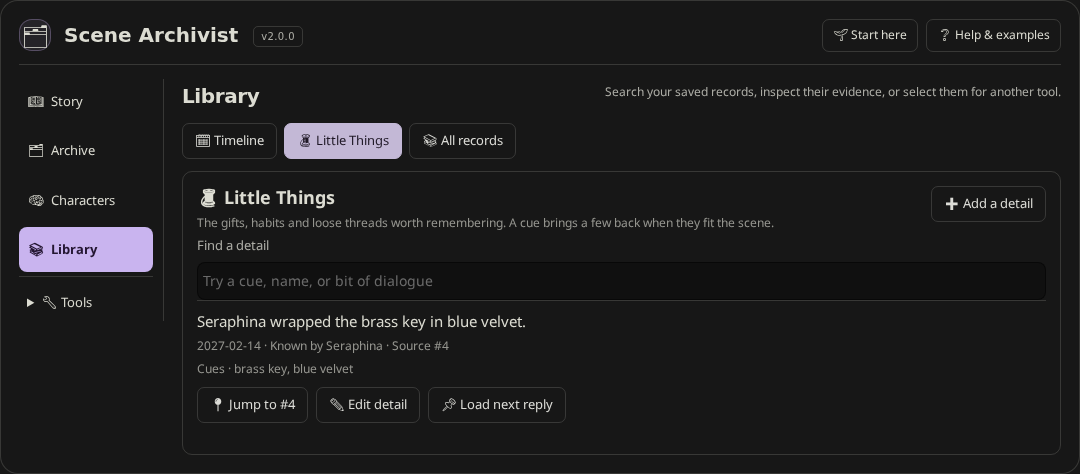
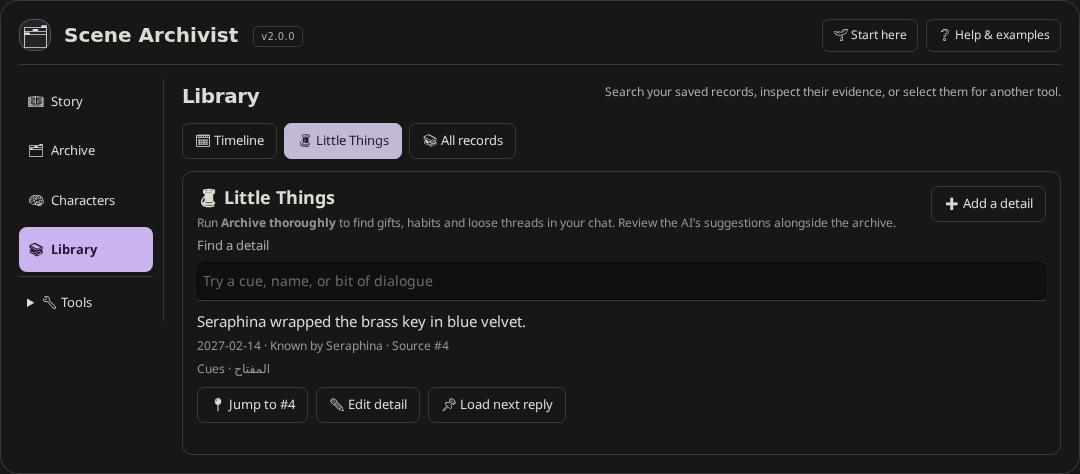
Refine Memory Trail and finalize Scene Archivist 2.0.0

Changed region(s): [[0.1833, 0.443, 0.825, 0.5021], [0.2139, 0.7679, 0.3361, 0.7975]]

diff --git a/prompt-inspection.js b/prompt-inspection.js
@@ -130,27 +130,38 @@ export class PromptInspection {
         const trace = index === null
             ? this.lastTrace || chat.findLast(item => item.extra?.[traceKey])?.extra?.[traceKey]
             : message?.extra?.[traceKey];
+        const replyIndex = index ?? (trace ? chat.findLastIndex(item => item.extra?.[traceKey] === trace) : -1);
+        const title = docked ? 'Memory Trail' : index === null ? 'Last reply’s memory trail' : `Memory Trail for #${index}`;
+        const header = document.createElement('header');
+        header.className = 'sa-trail-head';
+        header.innerHTML = `<div class="sa-trail-title"><h3><i class="fa-solid fa-magnifying-glass" aria-hidden="true"></i> ${title}</h3></div>`;
+        if (docked && replyIndex >= 0) header.insertAdjacentHTML('beforeend', `<p class="sa-trail-reply">Reply #${replyIndex}</p>`);
         const root = document.createElement('div');
         root.className = 'sa-review sa-prompt-trace';
-        root.innerHTML = `<h3>🔎 ${index === null ? docked ? 'Memory Trail' : 'Last reply’s memory trail' : `Memory Trail for #${index}`}</h3>
-            <p class="sa-hint">What Scene Archivist selected for this reply, with the cues and sources behind it.</p>`;
+        if (!docked) root.append(header);
         if (!trace) {
-            root.insertAdjacentHTML('beforeend', '<p>No trace for this swipe. Generate a reply with an attached archive to start recording.</p>');
+            root.insertAdjacentHTML('beforeend', '<p class="sa-hint">No trace for this swipe. Generate a reply with an attached archive to start recording.</p>');
         } else {
-            const intro = document.createElement('p');
-            intro.textContent = trace.scanObserved ? `${trace.loaded} loaded · ~${trace.tokens.toLocaleString()} tokens · ${trace.skipped} skipped.` :
-                'No Scene Archivist activation was reported for this reply.';
-            root.append(intro);
-            if (trace.prefixTokens != null) {
-                const p = document.createElement('p');
-                p.className = 'sa-hint';
-                p.textContent = `~${trace.prefixTokens.toLocaleString()} tokens of shared prompt prefix vs. the previous request. ${trace.layered ? 'Cache-friendly delivery was on.' : 'Normal delivery was on.'}`;
-                root.append(p);
+            if (trace.scanObserved) {
+                const stats = document.createElement('ul');
+                stats.className = 'sa-trail-stats';
+                stats.setAttribute('aria-label', 'Reply totals');
+                for (const stat of [`${trace.loaded} loaded`, `~${trace.tokens.toLocaleString()} tokens`, `${trace.skipped} skipped`]) {
+                    const chip = document.createElement('li');
+                    chip.textContent = stat;
+                    stats.append(chip);
+                }
+                header.append(stats);
+            } else {
+                root.insertAdjacentHTML('beforeend', '<p class="sa-hint">No Scene Archivist activation was reported for this reply.</p>');
             }
-            for (const [title, items, total] of [['📥 Lorebook records', trace.active, trace.loaded - (trace.little?.length || 0)], ['🧹 Skipped', trace.omitted, trace.skipped]]) {
+            const littleCount = trace.little?.length || 0;
+            for (const [loaded, items, total] of [[true, trace.active, trace.loaded - littleCount], [false, trace.omitted, trace.skipped]]) {
                 const section = document.createElement('details');
-                section.open = title.startsWith('📥');
-                section.innerHTML = `<summary>${title} · ${total}</summary>`;
+                section.open = loaded && !littleCount;
+                const summary = document.createElement('summary');
+                summary.textContent = `${loaded ? '📥 Lorebook records' : '🧹 Skipped'} · ${total}`;
+                section.append(summary);
                 if (!items.length) section.insertAdjacentHTML('beforeend', '<p>None recorded.</p>');
                 for (const item of items) {
                     const row = document.createElement('div');
@@ -163,7 +174,7 @@ export class PromptInspection {
                         button.type = 'button'; button.className = 'menu_button'; button.textContent = '🔎 View sources';
                         button.addEventListener('click', () => void w.showSources(item.id));
                         actions.append(button);
-                        if (section.open) {
+                        if (loaded) {
                             const load = document.createElement('button');
                             load.type = 'button'; load.className = 'menu_button'; load.textContent = '📌 Load next reply';
                             load.addEventListener('click', () => void w.dispatch('loadDetail', { dataset: { id: item.id } }).catch(error => w.h.notify(error.message, 'error')));
@@ -178,7 +189,9 @@ export class PromptInspection {
             if (trace.little?.length) {
                 const section = document.createElement('details');
                 section.open = true;
-                section.innerHTML = `<summary>🧵 Little Things · ${trace.little.length} · ~${trace.littleTokens} tokens</summary>`;
+                const summary = document.createElement('summary');
+                summary.textContent = `🧵 Little Things · ${littleCount} · ~${trace.littleTokens} tokens`;
+                section.append(summary);
                 for (const item of trace.little) {
                     const row = document.createElement('div');
                     row.className = 'sa-result';
@@ -205,6 +218,15 @@ export class PromptInspection {
                 }
                 root.querySelector('details')?.before(section);
             }
+            if (trace.prefixTokens != null) {
+                const diagnostics = document.createElement('details');
+                diagnostics.innerHTML = '<summary>Prompt delivery</summary>';
+                const p = document.createElement('p');
+                p.className = 'sa-hint';
+                p.textContent = `~${trace.prefixTokens.toLocaleString()} tokens shared with the previous request. ${trace.layered ? 'Cache-friendly delivery was on.' : 'Normal delivery was on.'}`;
+                diagnostics.append(p);
+                root.append(diagnostics);
+            }
         }
         if (docked) {
             this.closeDock(false);
@@ -220,10 +242,13 @@ export class PromptInspection {
             dock.className = 'sa-trail-dock';
             dock.setAttribute('aria-label', 'Memory Trail');
             const close = document.createElement('button');
-            close.type = 'button'; close.className = 'menu_button sa-trail-close'; close.textContent = 'Close trail';
+            close.type = 'button'; close.className = 'menu_button sa-trail-close'; close.textContent = 'Close';
+            close.setAttribute('aria-label', 'Close trail');
             close.addEventListener('click', () => this.closeDock());
             dock.addEventListener('keydown', event => { if (event.key === 'Escape') this.closeDock(); });
-            dock.append(close, root); document.body.append(dock);
+            header.querySelector('.sa-trail-title').append(close);
+            root.classList.add('sa-trail-body');
+            dock.append(header, root); document.body.append(dock);
             document.body.classList.add('sa-trail-open');
             this.dock = dock;
             this.dockTrigger = trigger;

diff --git a/style.css b/style.css
@@ -379,27 +379,53 @@ dialog:has(.sa-popwrap) .popup-content { padding: 0; }
 .sa-review .sa-proposal > summary b { flex: 1 1 175px; overflow-wrap: anywhere; }
 dialog:has(.sa-review) .popup-button-ok { font-family: var(--mainFontFamily, system-ui), "Segoe UI Emoji", "Apple Color Emoji", "Noto Color Emoji", "Noto Emoji", sans-serif; }
 .sa-trail-dock {
-    position: fixed; z-index: 500; top: calc(var(--topBarBlockSize, 45px) + 8px); inset-inline-end: 8px;
-    height: calc(100dvh - var(--topBarBlockSize, 45px) - 16px);
-    width: 310px; max-width: calc(100vw - 16px); overflow: auto; overscroll-behavior: contain; padding: 12px;
-    border: 1px solid var(--SmartThemeBorderColor, #62586d); border-radius: 12px;
-    background: color-mix(in srgb, var(--SmartThemeBlurTintColor, #211d26) 88%, #24212a);
-    color: var(--SmartThemeBodyColor, #eeeaf5); box-shadow: 0 6px 24px #0006;
-}
-.sa-trail-dock .sa-result { overflow-wrap: anywhere; }
-.sa-trail-dock .sa-trail-actions { margin: 8px 0 2px; gap: 5px; }
-.sa-trail-dock .menu_button {
-    display: inline-flex; align-items: center; justify-content: center; width: auto; min-height: 34px; padding: 5px 8px;
-    border: 1px solid var(--SmartThemeBorderColor, #62586d); border-radius: 6px; font: inherit; font-size: .8em; white-space: nowrap;
-}
-.sa-trail-close { float: inline-end; }
-.sa-trail-dock .sa-review h3 { font-size: 1.25em; margin: 6px 0 13px; }
-@media (min-width: 921px) {
-    body.sa-trail-open #sheld { right: 326px; max-width: calc(100vw - 344px); }
-}
-@media (max-width: 920px) {
     /* ST transforms the document root and fixes its body on mobile. */
-    .sa-trail-dock { top: 100dvh; transform: translateY(-100%); inset-inline: 0; width: auto; max-width: none; height: auto; max-height: 48dvh; padding-bottom: max(12px, env(safe-area-inset-bottom)); border-radius: 12px 12px 0 0; }
+    position: fixed; z-index: 500; top: 100dvh; left: 0; right: 0; transform: translateY(-100%);
+    display: flex; flex-direction: column; max-height: 48dvh; overflow: hidden; box-sizing: border-box;
+    padding-bottom: env(safe-area-inset-bottom); border: 1px solid var(--sa-trail-line); border-radius: 12px 12px 0 0;
+    --sa-trail-line: color-mix(in srgb, currentColor 20%, transparent);
+    --sa-trail-wash: color-mix(in srgb, currentColor 7%, transparent);
+    color: var(--SmartThemeBodyColor, #eeeaf5); box-shadow: 0 6px 24px #0006;
+    background: var(--SmartThemeBlurTintColor, #211d26);
+    background: rgb(from var(--SmartThemeBlurTintColor, #211d26) r g b / 1);
+    font-size: .9rem; text-shadow: none;
+}
+.sa-trail-title { display: flex; justify-content: space-between; align-items: center; gap: 8px; }
+.sa-trail-stats { display: flex; flex-wrap: wrap; gap: 5px; list-style: none; padding: 0; margin: 8px 0 0; }
+.sa-trail-stats li { padding: 3px 8px; border-radius: 6px; font-size: .86em; line-height: 1.4; background: var(--sa-trail-wash, #8882); }
+.sa-trail-dock .sa-trail-head { flex: none; padding: 10px 12px; border-bottom: 1px solid var(--sa-trail-line); }
+.sa-trail-dock h3 { margin: 0; font: 650 1.15em/1.35 var(--mainFontFamily, system-ui), sans-serif; }
+.sa-trail-reply { margin: 2px 0 0; font-size: .86em; opacity: .8; }
+.sa-trail-body { min-height: 0; overflow: auto; overscroll-behavior: contain; scrollbar-gutter: stable; padding: 9px 10px 10px 12px; }
+.sa-trail-dock .sa-review details { margin: 0 0 6px; padding: 0; border-color: var(--sa-trail-line); }
+.sa-trail-dock details > summary { padding: 7px 9px; font-size: .93em; font-weight: 600; }
+.sa-trail-dock details[open] > summary { background: var(--sa-trail-wash); border-radius: 7px 7px 0 0; }
+.sa-trail-dock details > p { margin: 8px 9px; }
+.sa-trail-dock .sa-result { padding: 8px 0; margin: 0 9px; border-color: var(--sa-trail-line); line-height: 1.4; }
+.sa-trail-dock .sa-result:first-of-type { border-top: 0; }
+.sa-trail-dock .sa-result p { margin: 3px 0; }
+.sa-trail-dock .sa-trail-actions { margin: 6px 0 0; gap: 5px; }
+.sa-trail-dock .menu_button {
+    display: inline-flex; align-items: center; justify-content: center; width: auto; min-height: 34px; margin: 0; padding: 4px 8px;
+    border: 1px solid var(--sa-trail-line); border-radius: 6px; font: inherit; font-size: .86em; white-space: nowrap;
+}
+@media (pointer: coarse) {
+    .sa-trail-dock .menu_button { min-height: 44px; }
+}
+@media (min-width: 1001px) and (pointer: fine) {
+    body.sa-trail-open:not(.movingUI) {
+        --sa-trail-width: clamp(312px, 24dvw, 380px);
+        --sa-trail-gap: 12px;
+        --sa-trail-chat-width: min(var(--sheldWidth, 100dvw), calc(100dvw - var(--sa-trail-width) - 3 * var(--sa-trail-gap)));
+    }
+    body.sa-trail-open:not(.movingUI) #sheld {
+        right: calc(var(--sa-trail-width) + var(--sa-trail-gap)); max-width: var(--sa-trail-chat-width);
+    }
+    body.sa-trail-open:not(.movingUI) .sa-trail-dock {
+        top: calc(var(--topBarBlockSize, 45px) + 8px); right: auto; transform: none; border-radius: 12px;
+        left: calc((100dvw + var(--sa-trail-chat-width) - var(--sa-trail-width) + var(--sa-trail-gap)) / 2);
+        width: var(--sa-trail-width); max-height: calc(100dvh - var(--topBarBlockSize, 45px) - 16px);
+    }
 }
 @media (max-width: 720px) {
     .sa-sidebar-workspace > .sa-tabs { grid-template-columns: repeat(4, minmax(0, 1fr)); gap: 3px; }

diff --git a/little-things.js b/little-things.js
@@ -18,20 +18,26 @@ const unspaced = /[\p{Script=Han}\p{Script=Hiragana}\p{Script=Katakana}\p{Script
 const arabic = /\p{Script_Extensions=Arabic}/u;
 const cueText = value => normalize(value).replace(/[\u0640\p{M}]/gu, mark => mark === '\u0640' || arabic.test(mark) ? '' : mark).replace(/ +/g, ' ').trim();
 const boundary = symbol => !symbol || symbol === ' ' || unspaced.test(symbol);
+const arabicPrefix = / (?:[وف][بكل]?|[بكل])$/;
+const arabicConjunction = / [وف]$/;
 
 function phrase(text, cue) {
     if (!cue) return false;
     const symbols = [...cue], first = symbols[0], last = symbols.at(-1);
     const padded = ` ${text} `;
     const looseStart = unspaced.test(first), looseEnd = unspaced.test(last);
-    const arabicPrefix = symbols.length > 1 && arabic.test(first);
-    for (let at = padded.indexOf(cue); at >= 0; at = padded.indexOf(cue, at + 1)) {
-        const end = at + cue.length;
-        const before = [...padded.slice(Math.max(0, at - 2), at)].at(-1);
-        const after = [...padded.slice(end, end + 2)][0];
-        // Match attached Arabic conjunctions and prepositions at the start of a word.
-        const prefixed = arabicPrefix && / (?:[وف][بك]?|[بك])$/.test(padded.slice(Math.max(0, at - 3), at));
-        if ((looseStart || boundary(before) || prefixed) && (looseEnd || boundary(after))) return true;
+    const arabicWord = symbols.length > 1 && arabic.test(first);
+    const forms = [[cue, arabicWord ? arabicPrefix : null]];
+    // Arabic drops the article's alif after ل, as in المفتاح → للمفتاح.
+    if (arabicWord && /^ال\p{L}/u.test(cue)) forms.push([`ل${cue.slice(1)}`, arabicConjunction]);
+    for (const [form, prefix] of forms) {
+        for (let at = padded.indexOf(form); at >= 0; at = padded.indexOf(form, at + 1)) {
+            const end = at + form.length;
+            const before = [...padded.slice(Math.max(0, at - 2), at)].at(-1);
+            const after = [...padded.slice(end, end + 2)][0];
+            const prefixed = prefix?.test(padded.slice(Math.max(0, at - 3), at));
+            if ((looseStart || boundary(before) || prefixed) && (looseEnd || boundary(after))) return true;
+        }
     }
     return false;
 }
@@ -172,8 +178,8 @@ export function recallFrame(chat, type, speakerNames = []) {
     return { focus, prior, participants, place, date, flashback: flashback ? date : '', boundary, end };
 }
 
-function cueMatch(cues, frame, allowSingle = true) {
-    const hits = [...new Set(cues.map(cueText).filter(cue => cue && (allowSingle || cue.includes(' ') || [...cue].length > 1 && unspaced.test(cue))))];
+function cueMatch(cues, frame, eligible) {
+    const hits = [...new Set(cues.map(cueText).filter(cue => cue && eligible(cue, [...cue].length)))];
     for (const [i, message] of [frame.focus, ...frame.prior].entries()) {
         if (!message) continue;
         const matched = hits.filter(cue => phrase(message.text, cue)).sort((a, b) => b.length - a.length)[0];
@@ -213,8 +219,10 @@ export function noteRecall(notes, { frame, speaker, chat, sourceId, carry, reque
     const reminder = /\b(?:you (?:still )?owe me|you promised|our promise|did you forget (?:our|your) promise|hold you to (?:it|that))\b/.test(frame.focus?.text || '');
     const exact = /\b(?:exact words|word for word|verbatim|quote|what did .{1,60} say)\b/.test(frame.focus?.text || '');
     return allowed.flatMap(note => {
+        const names = [...(note.participants || []), ...(note.knows || [])];
         const match = requested.has(note.id) ? { score: 100, reason: 'Requested for this reply' } :
-            cueMatch(note.cues || [], frame) ||
+            cueMatch(note.cues || [], frame, (cue, length) => length >= 3 || unspaced.test(cue) ||
+                length === 2 && names.some(name => cueText(name) === cue)) ||
             (reminder && openPromises.length === 1 && openPromises[0] === note ? { score: 28, reason: 'Open promise between scene participants', anchor: frame.focus } : null) ||
             carryMatch(carry.get(note.id), frame, chat);
         if (!match) return [];
@@ -239,7 +247,8 @@ export function recordRecall(entries, frame, chat = [], carry = new Map()) {
         if (!recalledTypes.has(r?.type) || r.knowledge === 'unaware' || entry.disable || entry.constant || entry.keysecondary?.length || entry.probability < 100 ||
             entry.group || entry.characterFilter?.names?.length || entry.characterFilter?.tags?.length || entry.decorators?.length ||
             entry.delay || entry.cooldown || entry.sticky || flashbackReason(entry, frame)) return [];
-        const match = cueMatch([...(entry.key || []), ...(r.locations || []), ...(r.aliases || [])], frame, false) ||
+        const match = cueMatch([...(entry.key || []), ...(r.locations || []), ...(r.aliases || [])], frame,
+            (cue, length) => cue.includes(' ') || length > 1 && unspaced.test(cue)) ||
             carryMatch(carry.get(r.id), frame, chat);
         return match ? [{ entry, ...match }] : [];
     }).sort((a, b) => b.score - a.score).slice(0, 4);

diff --git a/tests/little-things.test.js b/tests/little-things.test.js
@@ -24,17 +24,30 @@ test('recall finds unspaced scripts, short names and Arabic attached prefixes', 
         ['青い鍵', '彼女は青い鍵をそっとしまった。'],
         ['กุญแจ', 'เธอเก็บกุญแจไว้ในกระเป๋า'],
         ['المفتاح', 'خبّأت مريم المصباح وَبِالْمِفْتَاحِ فتحت الباب.'],
+        ['مفتاح', 'هذا القفل يحتاج لِمِفْتَاح جديد.'],
+        ['المفتاح', 'كان لِلْمِفْتَاحِ مكان خاص.'],
+        ['المفتاح النحاسي', 'ولِلْمِفْتَاحِ النحاسي مكان خاص.'],
         ['Jo', 'Mara handed Jo the key.'],
         ['Jo', '彼女はJoに鍵を渡した。'],
         ['李', '李把它带回家。'],
     ];
     for (const [cue, mes] of samples) {
-        const detail = Little.makeLittleThing({ text: 'Remember the handover.', cues: [cue], knows: ['Rowan'] });
+        const detail = Little.makeLittleThing({ text: 'Remember the handover.', cues: [cue], knows: ['Rowan'], participants: ['Jo'] });
         const messages = [{ name: 'Mara', is_user: true, mes }];
         assert.equal(candidates(messages, {}, [detail]).length, 1, cue);
     }
-    const short = Little.makeLittleThing({ text: 'Jo has the key.', cues: ['Jo'] });
-    assert.equal(candidates([{ name: 'Mara', mes: 'Joanne found her journal.' }], {}, [short]).length, 0);
+    const negatives = [
+        ['Jo', 'Joanne found her journal.', ['Jo']],
+        ['Jo', 'Jo found her journal.', []],
+        ['in', 'She put it in the drawer.', []],
+        ['a', 'She left a letter.', ['A']],
+        ['المفتاح', 'احتفظت بالمفتاحين في الدرج.', []],
+        ['المفتاح', 'هذه جملة بللمفتاح.', []],
+    ];
+    for (const [cue, mes, participants] of negatives) {
+        const detail = Little.makeLittleThing({ text: 'Remember the handover.', cues: [cue], participants });
+        assert.equal(candidates([{ name: 'Mara', mes }], {}, [detail]).length, 0, cue);
+    }
 
     const entry = { key: ['青い鍵'], sceneArchivist: { type: 'unit' } };
     assert.equal(Little.recordRecall([entry], Little.recallFrame([{ mes: samples[1][1] }], 'normal'))[0].entry, entry);

diff --git a/story-library.js b/story-library.js
@@ -84,11 +84,11 @@ export class StoryLibrary {
     renderNotes() {
         const view = this.pane.querySelector('[data-sa-library-view="little"]'), notes = this.w.littleThings().slice().reverse();
         view.innerHTML = `<header class="sa-little-head"><div><h3>🧵 Little Things</h3>
-            <p class="sa-hint">The gifts, habits and loose threads worth remembering. A cue brings a few back when they fit the scene.</p></div>
+            <p class="sa-hint">Run <strong>Archive thoroughly</strong> to find gifts, habits and loose threads in your chat. Review the AI’s suggestions alongside the archive.</p></div>
             ${action('editNote', '➕ Add a detail')}</header>
             ${notes.length ? `<label class="sa-field"><span>Find a detail</span><input type="search" class="text_pole" data-sa-note-search placeholder="Try a cue, name, or bit of dialogue"></label>
                 <div class="sa-little-results">${notes.map(note => this.noteRow(note)).join('')}</div>` :
-                '<p class="sa-empty-state">Save one here, use Remember this on a message, or review suggestions after archiving.</p>'}`;
+                '<p class="sa-empty-state">Approved details appear here. To keep something the AI missed, add a detail or use Remember this on a chat message.</p>'}`;
         view.querySelector('[data-sa-note-search]')?.addEventListener('input', event => {
             const query = event.target.value.trim().toLowerCase();
             for (const row of view.querySelectorAll('.sa-little-row')) row.hidden = !row.textContent.toLowerCase().includes(query);

diff --git a/README.md b/README.md
@@ -160,9 +160,9 @@ Use **Sources** on a Library result. Each source range lists the chat it came fr
 
 ### Little Things
 
-Keep the borrowed coat, the way someone takes their coffee, or the promise that never made it into the main plot. Use **Library → Little Things → Add a detail**, or choose **Little Thing** in **Remember this** on a chat message. Give it a cue someone might actually say. Fill in **Who knows** for private details.
+Run **Archive thoroughly** to have the AI find the borrowed coat, the way someone takes their coffee, or the promise that never made it into the main plot. Reviewed archive and condense runs suggest details in the same model response. Uncheck any suggestions you want to skip, then choose **Save selected**. **Review later** keeps the whole draft.
 
-Reviewed archive and condense runs can suggest details in the same model response. Uncheck any suggestions you want to skip, then choose **Save selected**. **Review later** keeps the whole draft. Little Things live in the selected archive’s story metadata and travel with full story backups. Each detail adds zero lorebook entries. A branch with verified history keeps only Little Things with matching source messages.
+Find approved details under **Library → Little Things**. To keep something the AI missed, choose **Add a detail** there or choose **Little Thing** in **Remember this** on a chat message. Give it a specific cue someone might actually say. Fill in **Who knows** for private details. Little Things live in the selected archive’s story metadata and travel with full story backups. Each detail adds zero lorebook entries. A branch with verified history keeps only Little Things with matching source messages.
 
 A normal reply can load up to four matching details inside the existing memory budget on SillyTavern versions with the World Info scan hook. Relevant cues and open promises can carry over for a few replies within a scene. **Load next reply** queues a detail for the next eligible speaker. To turn off automatic selection, open **Tools → Prompt** and switch off scene recall.
 
@@ -189,7 +189,7 @@ Optional recap automation can suggest or create a recap after newer units, ficti
 
 - Under **Library → All records → Search, evidence and continuity**, **Ask the archive** answers a question with source links. **Check this claim** checks one statement, and the recent or whole-archive checks look for conflicts across records.
 - **Previously on…** creates a short return recap for the reader. **Recall** can ask a helper model to pick relevant details before a normal reply.
-- In **Story**, open the last reply’s **Memory Trail** beside the chat. On a small screen it opens as a bottom sheet. The chat message menu opens the trail for that reply or swipe. **Tools → Prompt** has the memory budget and more loading details. The trail reports both the native World Info matches and the Little Things Scene Archivist prepared for the reply.
+- In **Story**, open the last reply’s **Memory Trail** beside the chat. On a small screen or with Moving UI enabled it opens as a bottom sheet. The chat message menu opens the trail for that reply or swipe. The header stays visible as you scroll through World Info matches and Little Things. Open **Prompt delivery** for cache details or **Tools → Prompt** for budget settings.
 
 For a past scene, put an explicit marker such as `Flashback: February 14, 2027` on its own line in the chat. Scene recall uses the date to leave out managed memories that contain later or undated evidence. A new scene marker or a changed place ends recent cue carryover.
 

diff --git a/CHANGELOG.md b/CHANGELOG.md
@@ -1,19 +1,15 @@
 # Changelog
 
-## Unreleased
-
-- Skipping a suggested Little Thing now closes the review when all selected story records have been saved.
-- Scene recall matches short cues, Chinese, Japanese and Thai text without spaces, and common attached Arabic prefixes.
-- The fallback token estimate uses separate allowances for Arabic and Cyrillic prose, with extra room for Arabic vowel marks.
-
-## 2.0.0
+## 2.0.0 · November 7, 2026
 
 - Put Story, Archive, Characters and Library in one compact workspace. Find Maintain, Prompt and Settings under Tools, with Branches in Maintain.
 - Added a Library timeline with scene summaries, linked character memories, Little Things and original message jumps.
-- Added Little Things for small callbacks and open threads. Keep them in the archive’s story metadata, save one from a chat message, or review suggestions during archive and condense runs.
+- Added Little Things for small callbacks and open threads. Review AI suggestions during archive and condense runs, or save a detail from a chat message. Skipping a suggestion during approval dismisses it.
 - Added local scene recall for cues, promises and short carryover. Little Things share the prompt token budget, respect who knows them, and can include a verified short quote when requested.
-- Added a reply-side Memory Trail on desktop and a bottom sheet on smaller screens. See what loaded, why it loaded, and where it came from.
+- Recall matches unspaced Chinese, Japanese and Thai cues and attached Arabic prefixes, including forms like للمفتاح. Short cues in spaced scripts require a two-character name listed on the detail.
+- Added a compact Memory Trail beside the chat on desktop and as a bottom sheet on smaller screens. The panel has a solid theme background, a fixed header, and separate sections for Little Things, lorebook matches, skipped records, and prompt delivery.
 - Grouped proposed summaries, memories, trackers and Little Things in one review with editable text, source labels, and before and after text.
+- The fallback token estimate uses separate allowances for Arabic and Cyrillic prose, with extra room for Arabic vowel marks.
 - Kept saved stories, source links, Undo and unfinished drafts compatible with 1.2.0.
 
 ## 1.2.0 · November 6, 2026
